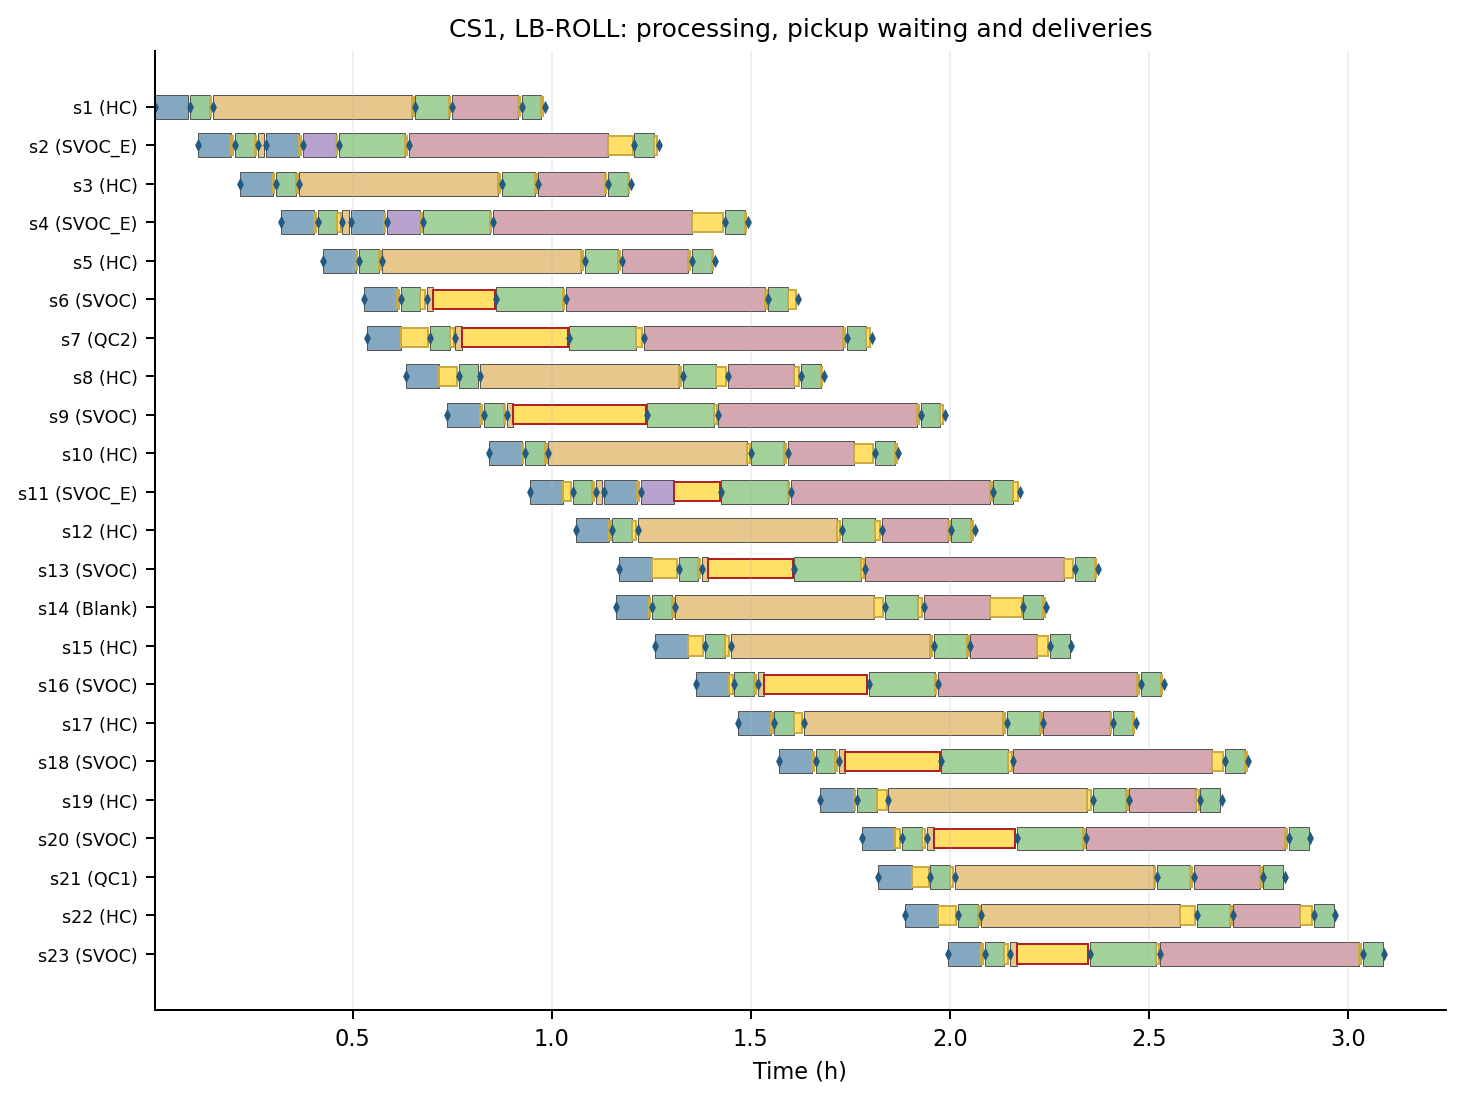
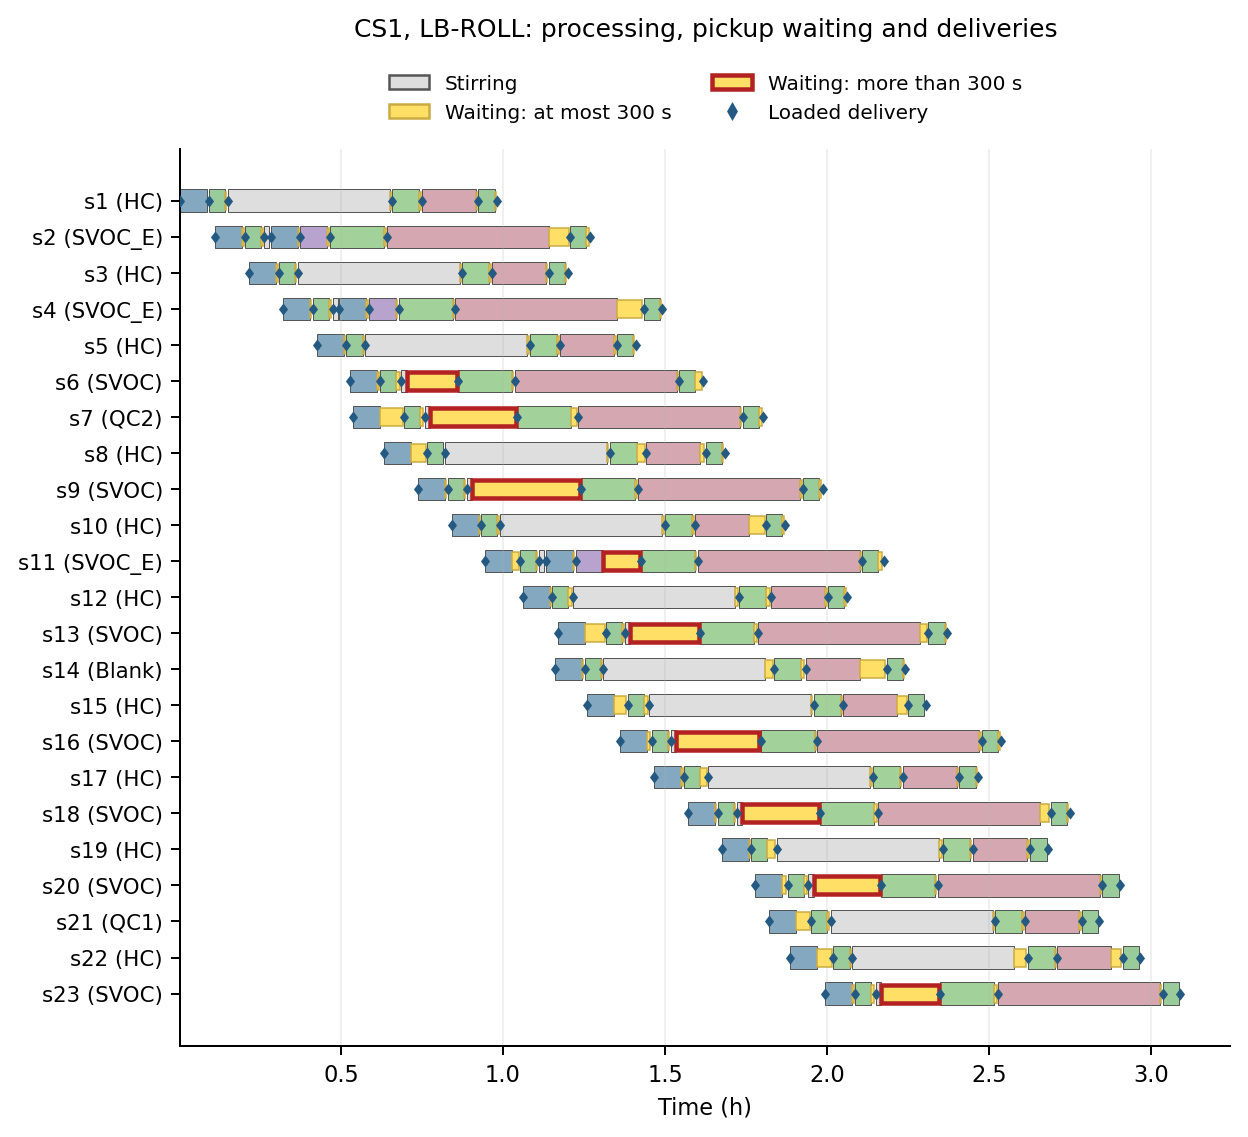
Update company affiliation and improve CS1 schedule readability

Changed region(s): [[0.0, 0.0618, 0.9688, 0.9882], [0.2812, 0.0, 0.8438, 0.0618], [0.5625, 0.0618, 0.8125, 0.1235]]

diff --git a/code/make_figures.py b/code/make_figures.py
@@ -1,16 +1,23 @@
 """Generate publication figures from the corrected CSVs and audited traces."""
 import csv
 import json
+import argparse
 from pathlib import Path
 import matplotlib
 matplotlib.use('Agg')
 import matplotlib.pyplot as plt
 from matplotlib.ticker import MultipleLocator
+from matplotlib.patches import Patch
+from matplotlib.lines import Line2D
 import numpy as np
 
 ROOT=Path(__file__).resolve().parents[1]
 OUT=ROOT/'figures'
 OUT.mkdir(exist_ok=True)
+parser=argparse.ArgumentParser(description=__doc__)
+parser.add_argument('--only', choices=['fig_bars_makespan','fig_bars_violations',
+                                     'fig_gantt_cs1','fig_wip_cs6'])
+args=parser.parse_args()
 plt.rcParams.update({'font.size':9,'font.family':'DejaVu Sans','pdf.fonttype':42,
                      'axes.spines.top':False,'axes.spines.right':False})
 COLORS={'URG':'#245a81','URG-MECT':'#d17a20','LB-ROLL':'#257343'}
@@ -20,6 +27,9 @@ data={(r['case'],r['policy']):r for r in rows}
 policies=list(COLORS)
 
 def save(fig,name):
+    if args.only and args.only != name:
+        plt.close(fig)
+        return
     fig.savefig(OUT/(name+'.pdf'),bbox_inches='tight')
     fig.savefig(OUT/(name+'.png'),dpi=180,bbox_inches='tight')
     plt.close(fig)
@@ -54,8 +64,8 @@ fig.tight_layout(w_pad=2);save(fig,'fig_bars_violations')
 traces=json.loads((ROOT/'validation/plot_data.json').read_text())
 r=traces['cs1_nominal'];cfg=json.loads((ROOT/'instances/cs1_nominal_config.json').read_text())
 types={s['id']:s['type'] for s in cfg['samples']}
-fig,ax=plt.subplots(figsize=(8.2,6.2))
-stagecolors={6:'#85a8c1',7:'#9acb9a',8:'#e7c78c',9:'#a2d29a',10:'#a2d29a',11:'#d5a8b1',12:'#85a8c1',13:'#b7a3cd',14:'#9acb9a'}
+fig,ax=plt.subplots(figsize=(7.0,6.4))
+stagecolors={6:'#85a8c1',7:'#9acb9a',8:'#dedede',9:'#a2d29a',10:'#a2d29a',11:'#d5a8b1',12:'#85a8c1',13:'#b7a3cd',14:'#9acb9a'}
 ids=sorted(r['operations'],key=lambda x:int(x[1:]))
 for i,sid in enumerate(ids):
     for op in r['operations'][sid]:
@@ -66,11 +76,16 @@ for i,sid in enumerate(ids):
         if task['from_stage']>0:
             prev=r['operations'][sid][task['from_stage']-1]['completion_s']
             wait=task['pickup_s']-prev
-            if wait>1e-6:ax.barh(i,wait/3600,left=prev/3600,height=.5,color='#ffdf66',edgecolor='#b22222' if wait>300 else '#caaa44',lw=.8)
-        ax.plot(task['delivery_s']/3600,i,marker='d',ms=2.2,color='#245a81')
-ax.set_yticks(range(len(ids)),[f'{s} ({types[s]})' for s in ids],fontsize=7)
+            if wait>1e-6:ax.barh(i,wait/3600,left=prev/3600,height=.5,color='#ffdf66',edgecolor='#b22222' if wait>300 else '#caaa44',lw=1.8 if wait>300 else .6,zorder=3)
+        ax.plot(task['delivery_s']/3600,i,marker='d',ms=2.5,color='#245a81',zorder=4)
+ax.set_yticks(range(len(ids)),[f'{s} ({types[s]})' for s in ids],fontsize=8.5)
 ax.invert_yaxis();ax.set_xlabel('Time (h)');ax.grid(axis='x',alpha=.2)
-ax.set_title('CS1, LB-ROLL: processing, pickup waiting and deliveries',fontsize=10)
+ax.legend(handles=[Patch(facecolor='#dedede',edgecolor='#555',label='Stirring'),
+                   Patch(facecolor='#ffdf66',edgecolor='#caaa44',label='Waiting: at most 300 s'),
+                   Patch(facecolor='#ffdf66',edgecolor='#b22222',linewidth=1.8,label='Waiting: more than 300 s'),
+                   Line2D([],[],color='#245a81',marker='d',linestyle='None',markersize=4,label='Loaded delivery')],
+          loc='lower center',bbox_to_anchor=(.5,1.01),ncol=2,fontsize=8,frameon=False)
+ax.set_title('CS1, LB-ROLL: processing, pickup waiting and deliveries',fontsize=10,pad=45)
 fig.tight_layout();save(fig,'fig_gantt_cs1')
 
 r=traces['cs6_fullday'];end=r['kpi']['makespan_s'];times=np.arange(0,end+600,600)
@@ -89,4 +104,4 @@ other.set(ylabel='Robot utilisation (%)',ylim=(0,105));ax.xaxis.set_major_locato
 ax.grid(alpha=.2);fig.legend(loc='upper center',ncol=2,frameon=False,fontsize=8)
 fig.tight_layout(rect=[0,0,1,.92]);save(fig,'fig_wip_cs6')
 
-print('Generated four vector figures and PNG previews in',OUT)
+print('Generated',args.only or 'four vector figures and PNG previews','in',OUT)

diff --git a/README.md b/README.md
@@ -1,6 +1,6 @@
 # Robotic water-sample preparation cell: replication package
 
-Version **2.0.0**, 16 October 2026, for *Design and Scheduling of an Automated Water-Sample Preparation Cell: Capacity Diagnosis and Pre-Commissioning Assessment*, prepared for Applied Sciences.
+Version **2.0.1**, 16 October 2026, for *Design and Scheduling of an Automated Water-Sample Preparation Cell: Capacity Diagnosis and Pre-Commissioning Assessment*, prepared for Applied Sciences.
 
 Repository: https://github.com/fnuni/2026apsc
 
@@ -77,3 +77,7 @@ The runner uses isolated directories and the original subprocess interface, allo
 ## Licence and citation
 
 Data retain CC BY 4.0 (`LICENSE`). Code uses MIT (`LICENSE-CODE`). `CITATION.cff` supplies the real five authors and versioned repository reference. Confidential source documents, instrument records, credentials and manuscript backups are not distributed.
+
+## Version 2.0.1
+
+The author affiliation is LabAnalysis Environmental Science S.r.l. The CS1 Gantt plot uses light grey for stirring, yellow for waiting, thicker red outlines for waits above 300 s, and an explicit legend. These presentation changes leave every numerical result unchanged.
